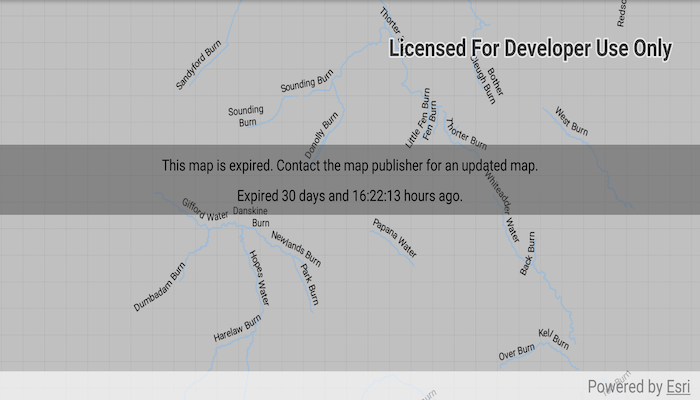
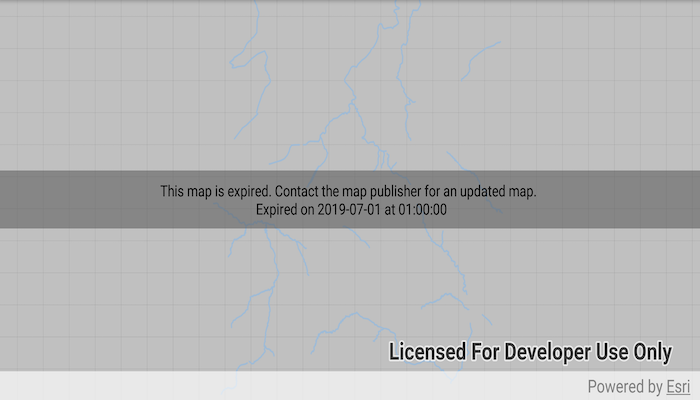
remove count down from mmpk expiration sample

diff --git a/java/honor-mobile-map-package-expiration-date/src/main/java/com/esri/arcgisruntime/sample/honormobilemappackageexpirationdate/MainActivity.java b/java/honor-mobile-map-package-expiration-date/src/main/java/com/esri/arcgisruntime/sample/honormobilemappackageexpirationdate/MainActivity.java
@@ -17,7 +17,6 @@
 package com.esri.arcgisruntime.sample.honormobilemappackageexpirationdate;
 
 import java.text.SimpleDateFormat;
-import java.util.Date;
 import java.util.Locale;
 
 import android.Manifest;
@@ -28,22 +27,17 @@ import android.support.annotation.NonNull;
 import android.support.v4.app.ActivityCompat;
 import android.support.v4.content.ContextCompat;
 import android.support.v7.app.AppCompatActivity;
-import android.util.Log;
 import android.view.View;
-import android.widget.Chronometer;
 import android.widget.TextView;
 import android.widget.Toast;
 
-import com.esri.arcgisruntime.loadable.LoadStatus;
+import com.esri.arcgisruntime.mapping.ExpirationType;
 import com.esri.arcgisruntime.mapping.MobileMapPackage;
 import com.esri.arcgisruntime.mapping.view.MapView;
 
 public class MainActivity extends AppCompatActivity {
 
-  private static final String TAG = MainActivity.class.getSimpleName();
-
   private MapView mMapView;
-  private Chronometer mChronometerView;
   private TextView mExpirationMessageTextView;
 
   @Override
@@ -54,8 +48,7 @@ public class MainActivity extends AppCompatActivity {
     // get a reference to the map view
     mMapView = findViewById(R.id.mapView);
 
-    // get a reference to the chronometer and expiration views
-    mChronometerView = findViewById(R.id.chronometerView);
+    // get a reference to the expiration text view
     mExpirationMessageTextView = findViewById(R.id.expirationMessageTextView);
 
     requestReadPermission();
@@ -71,44 +64,26 @@ public class MainActivity extends AppCompatActivity {
 
     // wait for the map package to load
     mobileMapPackage.addDoneLoadingListener(() -> {
-      // handle map package expiration, if expired
+      // check if the map package has expiration information and if so, has it expired yet
       if (mobileMapPackage.getExpiration() != null && mobileMapPackage.getExpiration().isExpired()) {
-        handleMobileMapPackageExpiration(mobileMapPackage);
-      }
-      if (mobileMapPackage.getLoadStatus() == LoadStatus.LOADED) {
-        // add the map to the map view
-        mMapView.setMap(mobileMapPackage.getMaps().get(0));
-      } else {
-        String error = "Failed to load mobile map package: " + mobileMapPackage.getLoadError().getMessage();
-        Toast.makeText(this, error, Toast.LENGTH_LONG).show();
-        Log.e(TAG, error);
+        // define a format for the date
+        SimpleDateFormat daysHoursFormat = new SimpleDateFormat("yyyy-MM-dd' at 'hh:mm:ss", Locale.US);
+        // show the expiration text view
+        mExpirationMessageTextView.setVisibility(View.VISIBLE);
+        // set the expiration message and expiration date to the text view
+        mExpirationMessageTextView.setText(getString(R.string.expiration_text,
+            mobileMapPackage.getExpiration().getMessage(),
+            daysHoursFormat.format(mobileMapPackage.getExpiration().getDateTime().getTime())));
+        if (mobileMapPackage.getExpiration().getType() == ExpirationType.ALLOW_EXPIRED_ACCESS) {
+          // add the map to the map view
+          mMapView.setMap(mobileMapPackage.getMaps().get(0));
+        } else if (mobileMapPackage.getExpiration().getType() == ExpirationType.PREVENT_EXPIRED_ACCESS) {
+          Toast.makeText(this, "The author of this mobile map package has disallowed access after the expiration date.",
+              Toast.LENGTH_LONG).show();
+        }
       }
     });
     mobileMapPackage.loadAsync();
-  }
-
-  /**
-   * Populate UI elements with relevant information regarding the expiration of the map.
-   *
-   * @param mobileMapPackage which has expired
-   */
-  private void handleMobileMapPackageExpiration(MobileMapPackage mobileMapPackage) {
-    // show the views
-    mExpirationMessageTextView.setVisibility(View.VISIBLE);
-    mChronometerView.setVisibility(View.VISIBLE);
-    // set the expiration message to the expiration text view
-    mExpirationMessageTextView.setText(mobileMapPackage.getExpiration().getMessage());
-    // define a format for the time passed
-    SimpleDateFormat daysHoursFormat = new SimpleDateFormat("dd' days and 'HH:mm:ss' hours'", Locale.US);
-    // set the base time to the mobile map package's expiration date
-    mChronometerView.setBase(mobileMapPackage.getExpiration().getDateTime().getTimeInMillis());
-    mChronometerView.setOnChronometerTickListener(chronometer -> {
-      // the time passed since the mobile map package expired, in milliseconds
-      long timePassedInMilliseconds = new Date().getTime() - chronometer.getBase();
-      chronometer.setText(String.format(getResources().getString(R.string.chronometer_text),
-          daysHoursFormat.format(new Date(timePassedInMilliseconds))));
-    });
-    mChronometerView.start();
   }
 
   @Override
